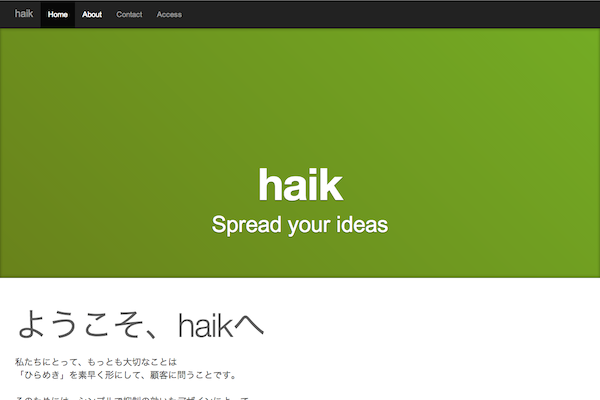
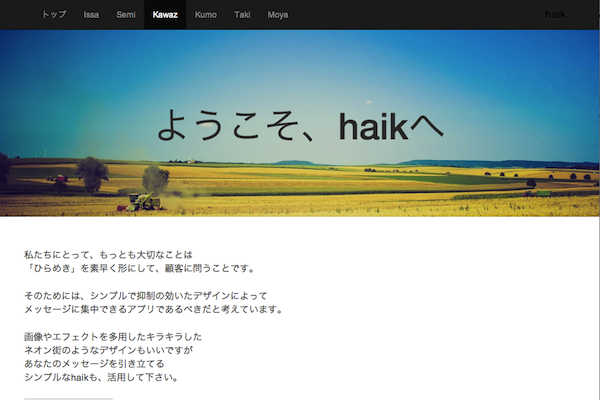
fitレイアウトを追加 横幅がウィンドウ幅にフィットするレイアウト

diff --git a/fit.skin.php b/fit.skin.php
@@ -1,0 +1,90 @@
+<head prefix="#{$head_prefix}">
+	#{$meta_content_type}
+	<title>#{$page_title}</title>
+	#{$viewport}
+	<meta name="keywords" content="#{$keywords}">
+	<meta name="description" content="#{$description}">
+	<link rel="alternate" type="application/rss+xml" title="RSS" href="#{$rss_link}">
+
+	#{$bootstrap_css}
+	#{$style_css}
+	
+	#{$head_tag}
+	#{$plugin_head}
+	#{$user_head}
+	
+	#{$tracking_script}
+
+</head>
+
+<body data-spy="scroll" data-target=".bs-docs-sidebar">
+#{$body_first}
+#{$sr_link}
+
+<header>
+
+	<!-- Navbar
+	================================================== -->
+	<div id="orgm_navbar" class="navbar navbar-inverse navbar-fixed-top">
+		<div class="container">
+			
+			<div class="navbar-header navbar-right">
+				<button type="button" class="navbar-toggle" data-toggle="collapse" data-target=".navbar-collapse">
+					<span class="icon-bar"></span>
+					<span class="icon-bar"></span>
+					<span class="icon-bar"></span>
+				</button>
+				<div id="logo">#{$logo}</div>
+			</div>
+			<nav class="navbar-collapse collapse">
+				#{$site_navigator}
+			</nav>
+		</div>
+	</div>
+	
+	<!-- EyeCatch
+	================================================== -->
+	<div id="orgm_eyecatch">
+		#{$eyecatch}
+	</div>
+
+</header>
+
+<!-- Body
+================================================== -->
+<div id="contents" role="main" class="marketing">
+	#{$body}
+</div>
+
+<aside>
+	#{$summary}
+</aside>
+
+<!-- Footer
+================================================== -->
+<footer class="footer">
+	<div class="container">
+		<div class="row">
+			#{$site_footer}
+		</div>
+	</div>
+	<div id="license" class="container">
+		#{$license_tag}
+	</div>
+</footer>
+
+#{$admin_nav}
+#{$body_last}
+
+<!-- Script
+================================================== -->
+#{$jquery_script}
+#{$bootstrap_script}
+#{$common_script}
+#{$admin_script}
+
+#{$plugin_script}
+#{$user_script}
+
+</body>
+</html>

diff --git a/config.php b/config.php
@@ -1,7 +1,7 @@
 <?php
 $config = array(
 	'name' => 'kawaz',
-	'version' => '1.1.0',
+	'version' => '1.2.0',
 	'thumbnail' => 'img/thumbnail.png',
 	'style_file' => 'css/docs.css',
 	'templates' => array(
@@ -14,6 +14,11 @@ $config = array(
 			'filename' => 'content.skin.php',
 			'layouts' => array('SiteNavigator', 'SiteFooter', 'MenuBar'),
 			'thumbnail' => 'img/thumbnail.content.png',
+		),
+		'fit' => array(
+			'filename' => 'fit.skin.php',
+			'layouts' => array('SiteNavigator', 'SiteFooter'),
+			'thumbnail' => 'img/thumbnail.fit.png',
 		),
 	),
 	'default_template' => 'content',
